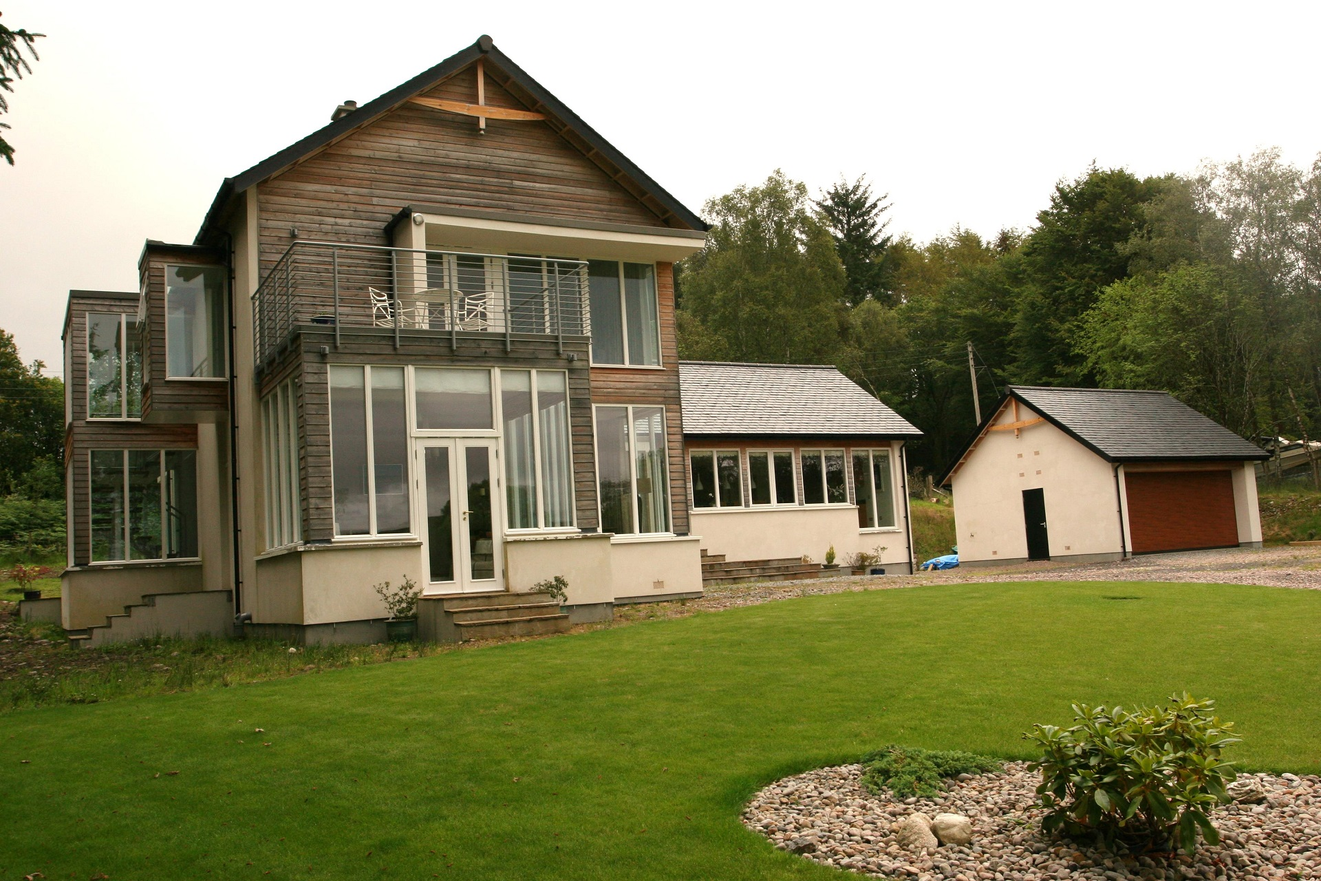
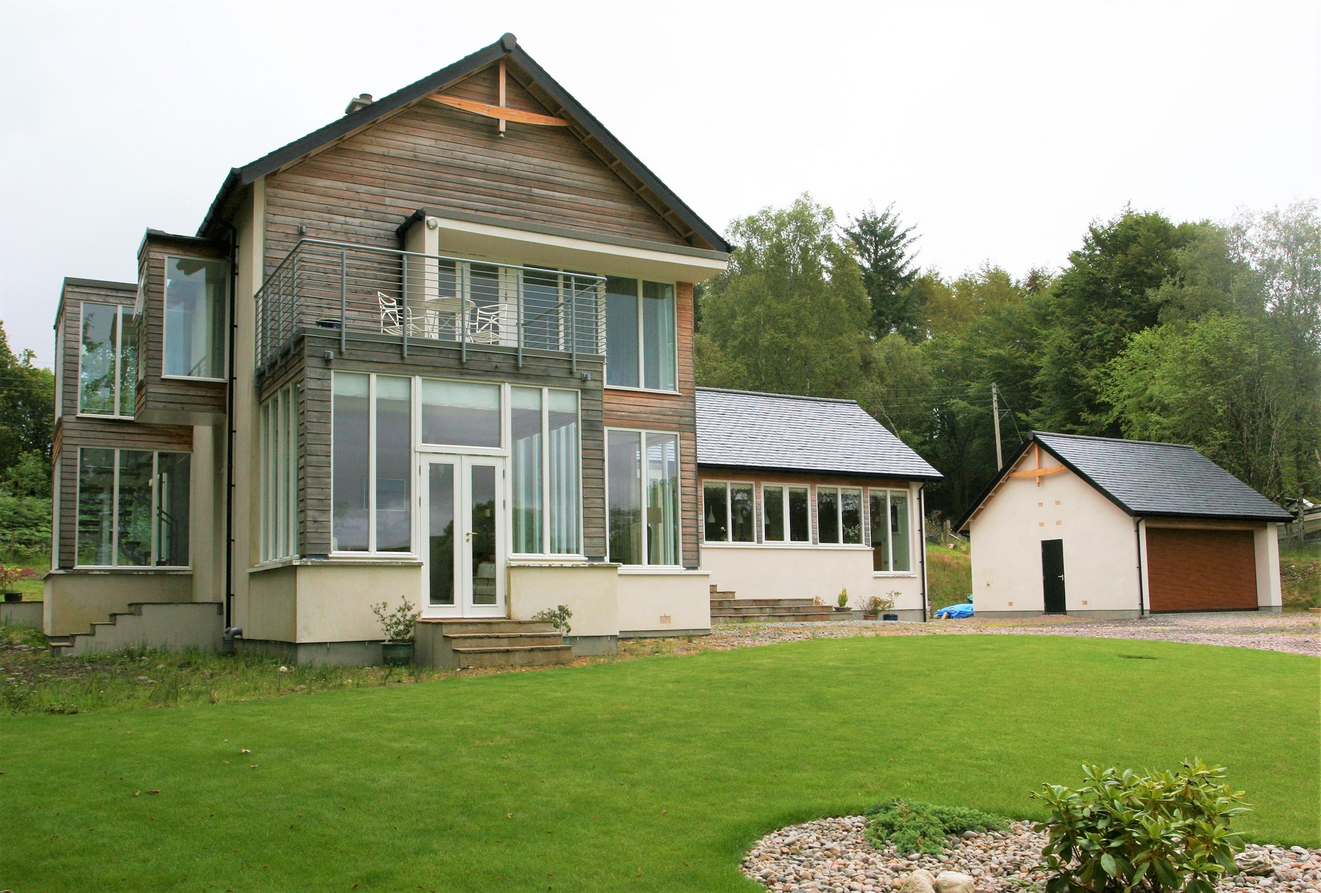
Changed carousel images

diff --git a/index.html b/index.html
@@ -174,7 +174,7 @@
 								<!-- SLIDE  -->
 								<li data-transition="fade" data-slotamount="7" data-masterspeed="1000" data-saveperformance="on"  data-title="Parallax 3D">
 									<!-- MAIN IMAGE -->
-									<img src="images/custom/home-three.jpg"  alt="3dbg" data-lazyload="images/custom/home-three.jpg" data-bgposition="center top" data-bgfit="cover" data-bgrepeat="no-repeat">
+									<img src="images/custom/home-three.jpg"  alt="3dbg" data-lazyload="images/custom/home-three.jpg" data-bgposition="95% center" data-bgfit="cover" data-bgrepeat="no-repeat">
 									<!-- LAYERS -->
 
 									<!-- LAYER NR. 1 -->

diff --git a/css/style.css b/css/style.css
@@ -11,7 +11,7 @@
  8.services page
  9.projects page
  10.blog page
- 11.single project page
+ 11.single project pagebanner-section
  12.contact page
  13.footer
  14.Responsive part
@@ -446,7 +446,7 @@ a.button-one {
   padding: 10px 35px;
 }
 .banner-section {
-  padding: 50px 0;
+  padding: 25px 0;
   background: #ffba00;
   text-align: center;
 }
